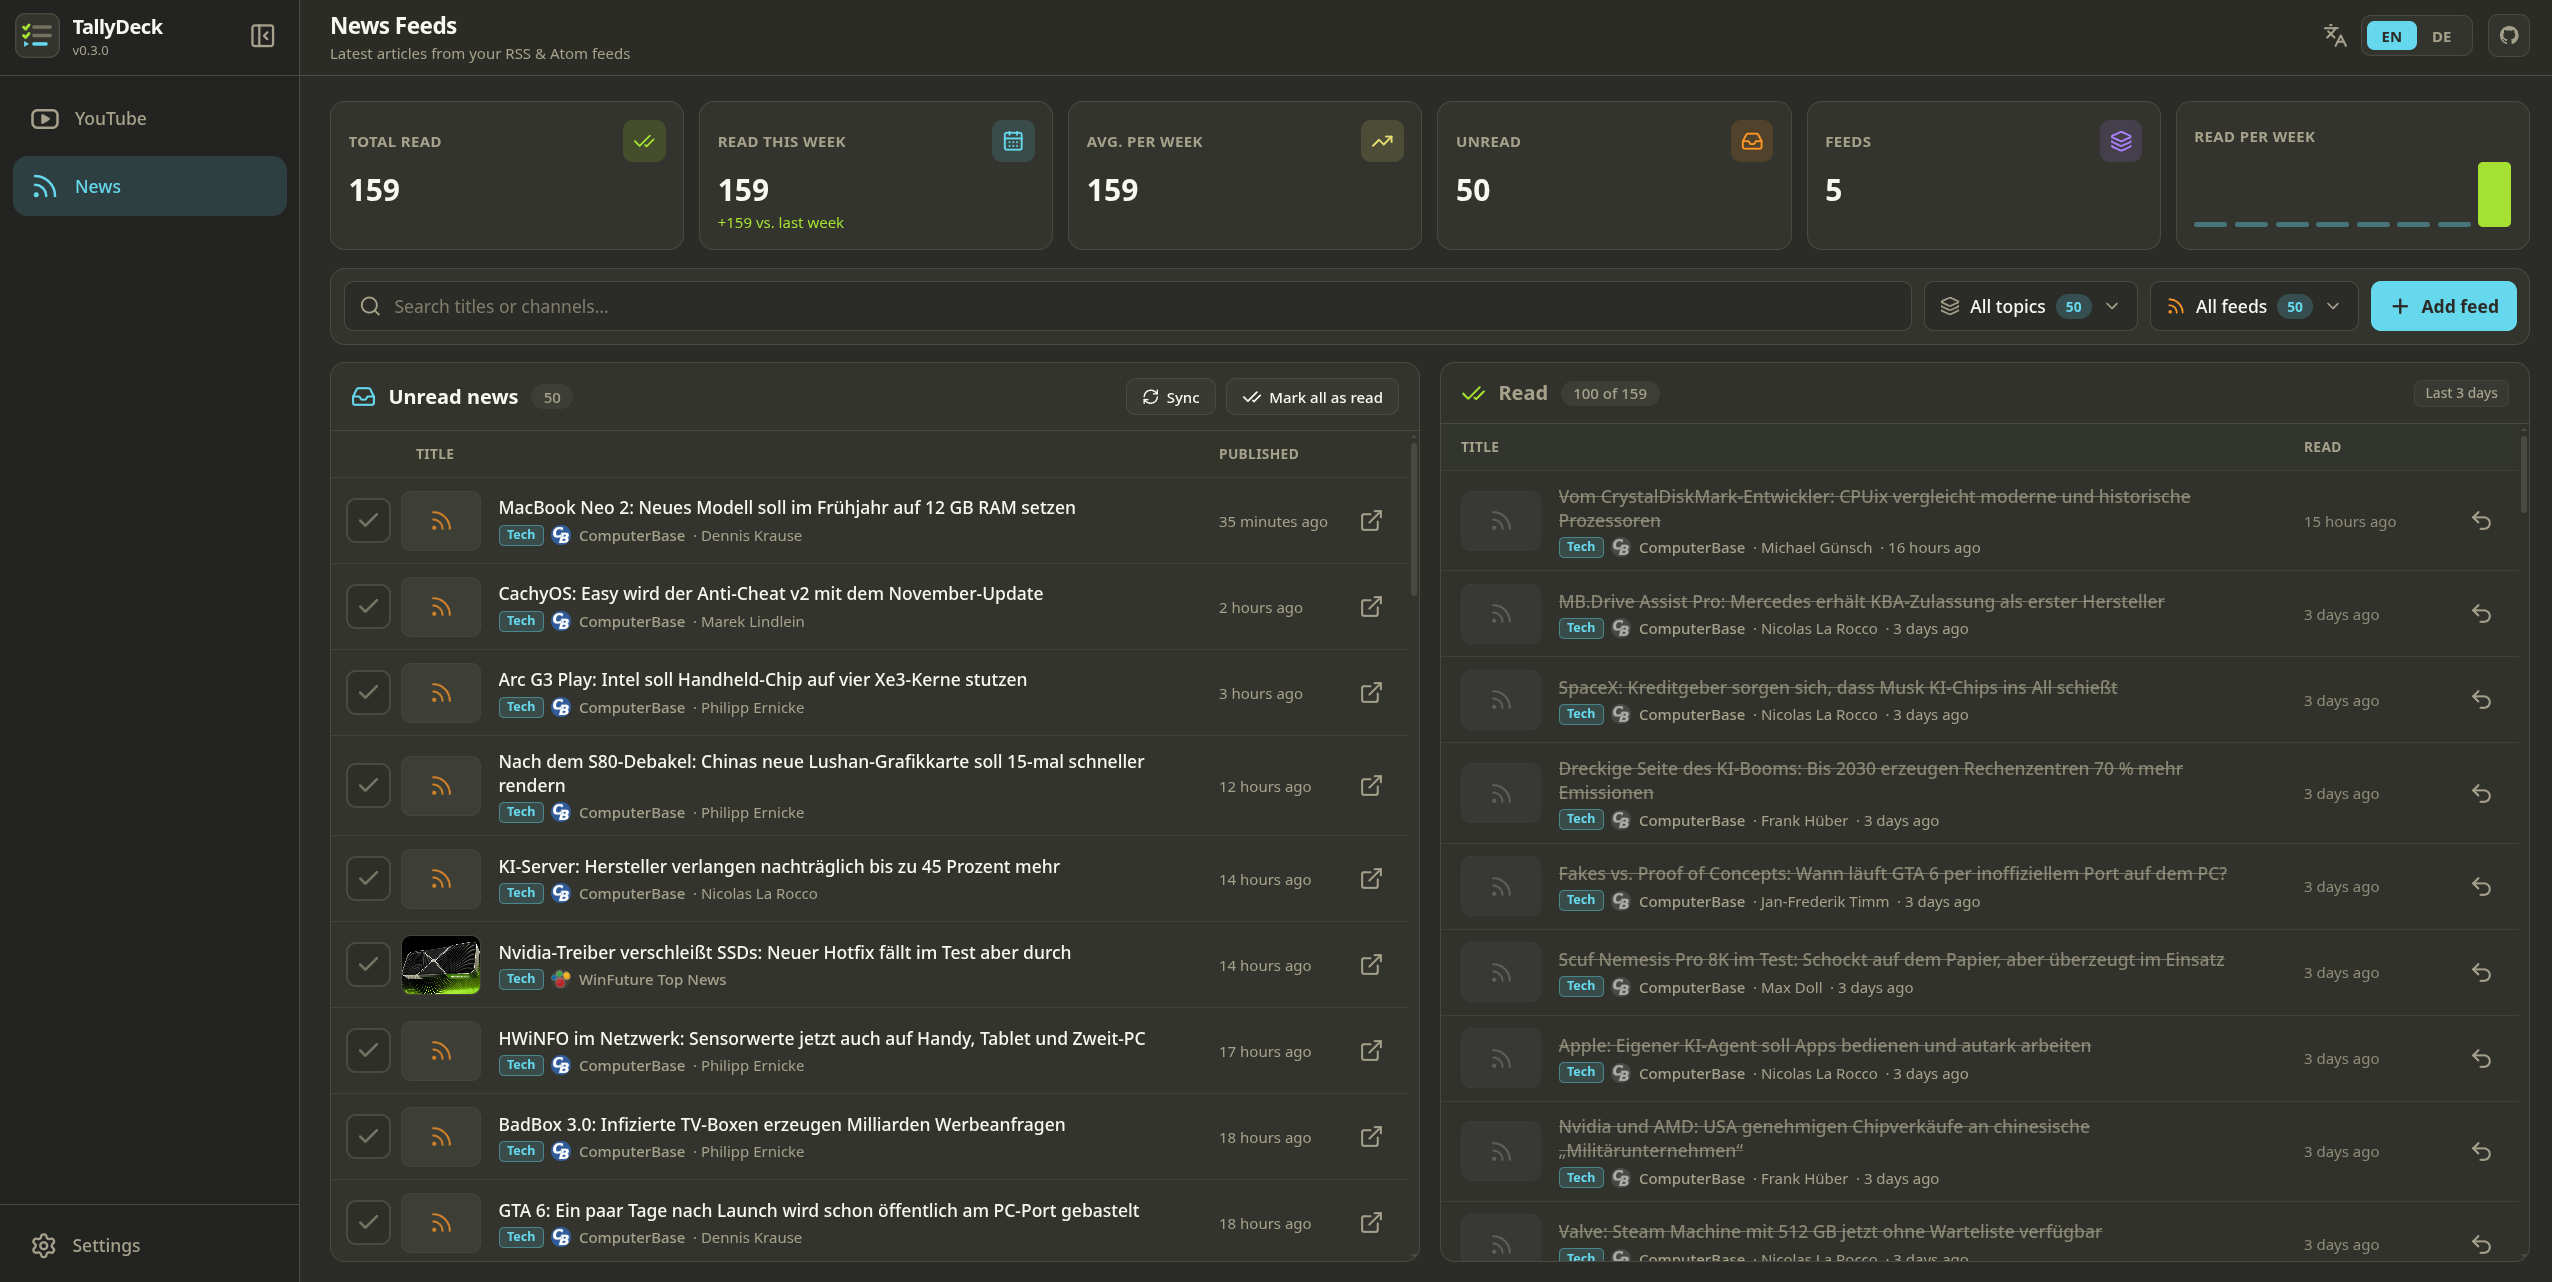
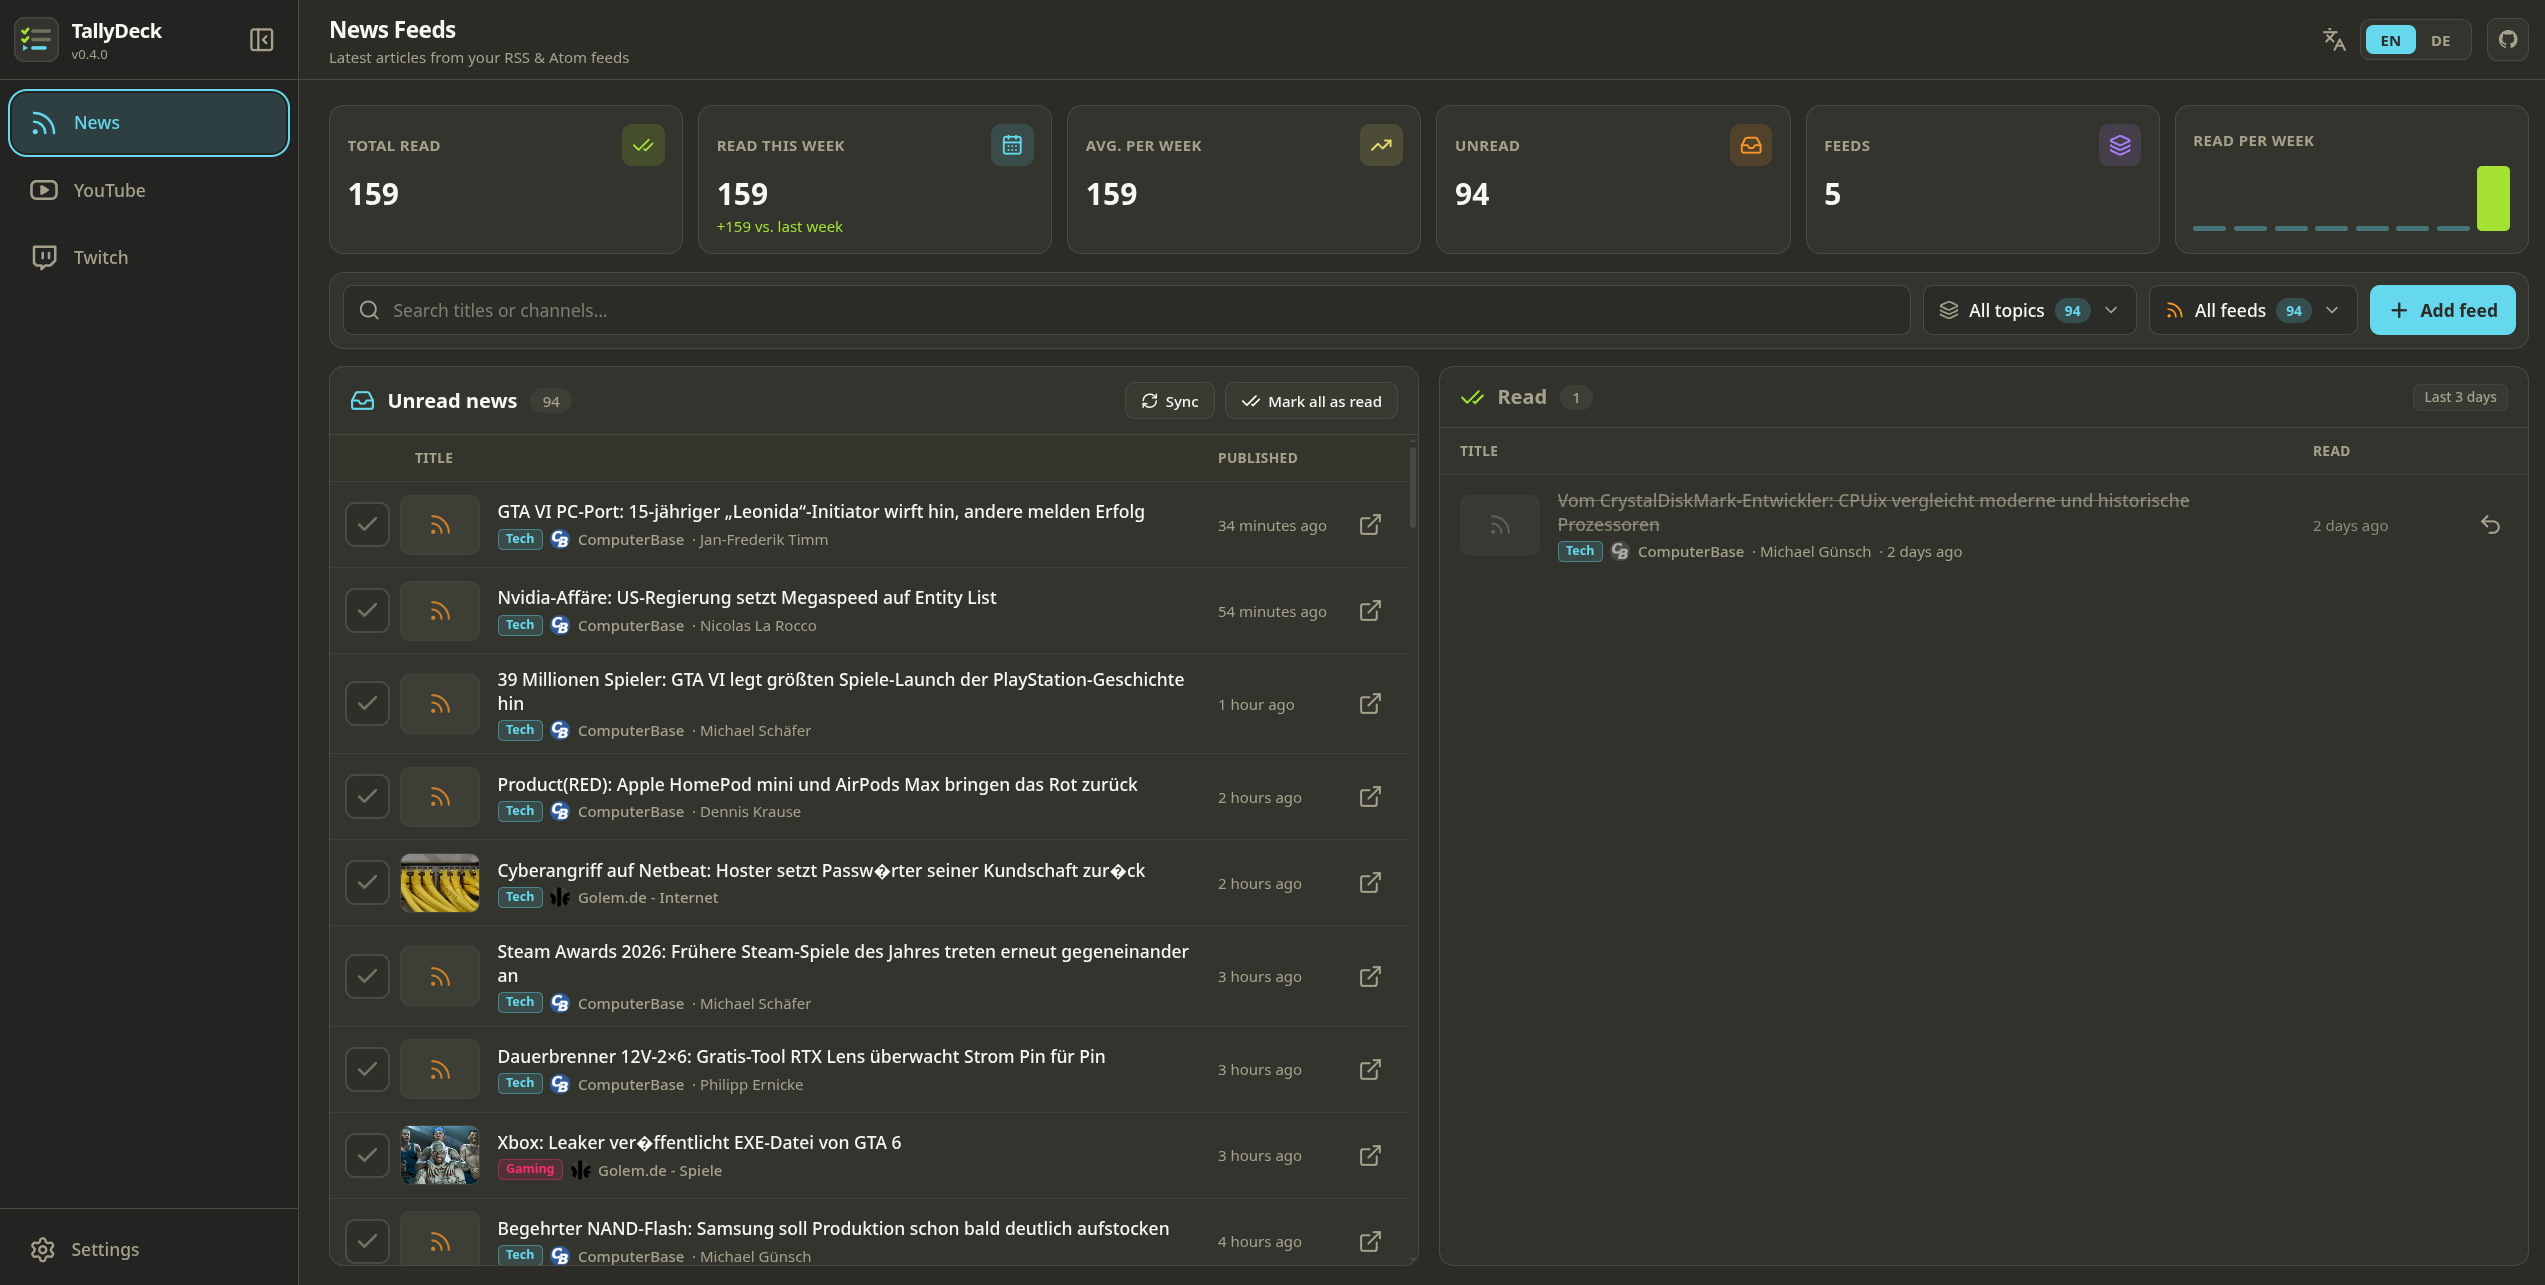
Update README [skip ci]

diff --git a/README.md b/README.md
@@ -3,7 +3,7 @@
 </h1>
 
 <p align="center">
-  <strong>Your feeds, tallied.</strong> A self-hosted inbox-zero dashboard for <strong>YouTube channels</strong> and <strong>RSS/Atom news feeds</strong>,<br />
+  <strong>Your feeds, tallied.</strong> A self-hosted inbox-zero dashboard for <strong>RSS/Atom news feeds</strong>, <strong>YouTube channels</strong>, and <strong>Twitch streams</strong>,<br />
   built with a warm Monokai dark theme and full <strong>Docker / Docker Compose</strong> support on port <code>5555</code>.
 </p>
 
@@ -17,12 +17,13 @@
 
 - **Two-Table Inbox-Zero Workflow:** Unread videos and news on the left, recently watched/read items on the right with one-click **Undo**, while keeping lifetime stats and duplicate protection in SQLite.
 - **YouTube Without API Key & RSS Auto-Discovery:** Paste any YouTube channel link (`@handle`, `/channel/UC…`, or video URL) or website/feed URL – TallyDeck resolves the feed automatically and includes a **Hide Shorts** toggle.
-- **Topics & Tag Grouping:** Organize channels and feeds by color-coded topics (e.g. *Tech*, *Gaming*, *Homelab*, *News*) with instant topic filters.
+- **Twitch Live Streams Tab (Zero Setup):** Track your favorite Twitch streamers as responsive 16:9 tiles showing live thumbnails, viewer counts, current game/category, and stream uptime – no API key or Twitch account required. Includes search, an **Online only / All channels** toggle, and configurable polling (minimum 15 min).
+- **Topics & Tag Grouping:** Organize YouTube channels and RSS feeds by color-coded topics (e.g. *Tech*, *Gaming*, *Homelab*, *News*) with instant topic filters.
 - **Statistics & Weekly Trend:** Tracks total watched/read, weekly progress vs. last week, weekly average, unread count, and an 8-week bar chart.
 - **Customizable Settings Menu:**
   - **Themes & Layout:** Dark/Light mode, 5 color themes (*Monokai*, *Dracula*, *Nord*, *Catppuccin*, *Gruvbox*), and *Comfortable* or *Compact* table view.
-  - **Sync & Inbox Control:** Configurable background sync interval, inbox display limits, history retention days, and optional auto-cleanup for old unread items.
-  - **Backups & OPML:** Full database JSON backup & restore plus separate OPML 2.0 import/export for YouTube and RSS.
+  - **Sync & Inbox Control:** Configurable background sync intervals (feeds & Twitch), inbox display limits, history retention days, and optional auto-cleanup for old unread items.
+  - **Backups, OPML & Twitch Import/Export:** Full database JSON backup & restore, separate OPML 2.0 import/export for YouTube and RSS, plus JSON/text import & export for Twitch channels.
 - **Multilingual UI:** English (default) and German included.
 
 ---
@@ -83,12 +84,13 @@ Then open **<http://localhost:5555>**.
 
 ## Configuration (Environment Variables)
 
-| Variable  | Default                  | Description                      |
-| --------- | ------------------------ | -------------------------------- |
-| `PORT`    | `5555`                   | HTTP server port                 |
-| `DB_PATH` | `/app/data/tallydeck.db` | Path to the SQLite database file |
+| Variable                       | Default                  | Description                                               |
+| ------------------------------ | ------------------------ | --------------------------------------------------------- |
+| `PORT`                         | `5555`                   | HTTP server port                                          |
+| `DB_PATH`                      | `/app/data/tallydeck.db` | Path to the SQLite database file                          |
+| `TWITCH_POLL_INTERVAL_MINUTES` | `15`                     | Default Twitch polling interval in minutes (minimum `15`) |
 
-> **Tip:** The background feed sync interval (*Off / 5 min / 15 min / 30 min / 60 min*) and full database backups can be configured directly in the **Settings** menu inside the web UI.
+> **Tip:** Both background sync intervals (Feeds: *Off / 5 / 15 / 30 / 60 min*, Twitch: *15 / 30 / 60 / 120 min*) and full database backups can be configured directly in the **Settings** menu inside the web UI.
 
 ### Database Backup
 
@@ -114,11 +116,11 @@ npm start          # Start the production server on http://localhost:5555
 
 ```text
 .github/workflows/ GitHub Actions workflow (tests + multi-arch GHCR Docker publish)
-server/            Fastify API, SQLite repository, RSS/Atom parser, YouTube resolver, scheduler
+server/            Fastify API, SQLite repository, RSS/Atom parser, YouTube resolver, Twitch service, schedulers
   tests/           node:test unit + API tests with fixtures
 src/               React + Vite + Tailwind CSS frontend (Monokai theme)
-  components/      Sidebar, TopBar, StatsBar, ChannelStrip, SplitFeedTables
-  pages/           DashboardPage (shared by YouTube & News)
+  components/      Sidebar, TopBar, StatsBar, FilterBar, SplitFeedTables, SettingsModal
+  pages/           DashboardPage (News & YouTube), TwitchPage
   i18n/            en.json, de.json, I18nContext
   utils/           Formatting helpers, localStorage hook, Monokai topic color palette
   navigation.ts    Sidebar navigation entries – extend here to add new pages
@@ -128,10 +130,10 @@ src/               React + Vite + Tailwind CSS frontend (Monokai theme)
 
 | Method   | Endpoint                                          | Description                                                |
 | -------- | ------------------------------------------------- | ---------------------------------------------------------- |
-| `GET`    | `/api/health`                                     | Health status, sync interval, and last sync timestamp      |
-| `GET`    | `/api/settings`                                   | Get server settings (sync interval, auto-archive config)   |
-| `PATCH`  | `/api/settings`                                   | Update server settings (`pollIntervalMinutes`, auto-archive)|
-| `GET`    | `/api/backup`                                     | Export full JSON backup (feeds, items, stats, settings)    |
+| `GET`    | `/api/health`                                     | Health status, sync interval, and last sync timestamps     |
+| `GET`    | `/api/settings`                                   | Get server settings (sync intervals, auto-archive config)  |
+| `PATCH`  | `/api/settings`                                   | Update server settings (`pollIntervalMinutes`, `twitchPollIntervalMinutes`, auto-archive) |
+| `GET`    | `/api/backup`                                     | Export full JSON backup (feeds, items, Twitch channels, stats, settings) |
 | `POST`   | `/api/backup`                                     | Restore full JSON backup                                   |
 | `GET`    | `/api/feeds?type=youtube\|rss`                    | List subscribed channels or feeds with unread counts       |
 | `POST`   | `/api/feeds`                                      | `{ type, url, category? }` – add channel/feed              |
@@ -143,3 +145,9 @@ src/               React + Vite + Tailwind CSS frontend (Monokai theme)
 | `GET`    | `/api/items?type=&feedId=&category=&hideShorts=&inboxLimit=&completedDays=` | Uncompleted items, completed items, & stats |
 | `PATCH`  | `/api/items/:id`                                  | `{ completed: boolean }` – mark item watched/read or undo  |
 | `POST`   | `/api/items/complete-all`                         | `{ type, feedId?, category?, hideShorts? }` – complete all |
+| `GET`    | `/api/twitch/streams`                             | Cached Twitch channels with live status, viewers, & game   |
+| `POST`   | `/api/twitch/channels`                            | `{ channel }` – add Twitch channel by name or URL          |
+| `DELETE` | `/api/twitch/channels/:id`                        | Remove a Twitch channel                                    |
+| `POST`   | `/api/twitch/sync`                                | Trigger immediate Twitch live status refresh               |
+| `GET`    | `/api/twitch/channels/export`                     | Export saved Twitch channels as JSON                       |
+| `POST`   | `/api/twitch/channels/import`                     | `{ content }` – import Twitch channels from JSON or text   |
